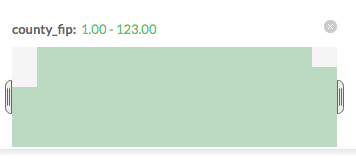
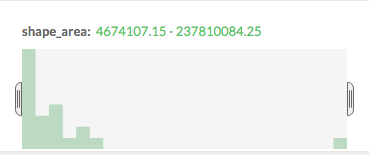
Section 'working with data' in progress

diff --git a/doc/modulo_cartodb_master_bigdata_bbva.md b/doc/modulo_cartodb_master_bigdata_bbva.md
@@ -249,23 +249,118 @@ Para terminar este apartado, solo vamos a mencionar que, en la vista de mapas, e
 
 Ya que conocemos la interfaz de CartoDB, vamos a empezar a trabajar en serio con la herramienta. Para ello, crearemos una visualización de las estaciones de [Bicimad](http://www.bicimad.com/) y los ciclocarriles de la ciudad de Madrid. Dicha visualización constará de 3 capas:
 
-* [Capa con **distritos de la ciudad de Madrid**](https://raw.githubusercontent.com/MapWorkshops/CartoDB-Intro/spanish/data/distritos_madrid.geojson), obtenida de la biblioteca de datos de CartoDB. Se trata de un conjunto de datos en formato polígono.
+* [Capa con **distritos de la ciudad de Madrid**](https://raw.githubusercontent.com/MapWorkshops/CartoDB-Intro/spanish/data/distritos_madrid_nogeo.csv), obtenida de la biblioteca de datos de CartoDB. Se trata de un conjunto de datos en formato polígono.
 * [Capa con **ciclocarriles de la ciudad de Madrid**](https://raw.githubusercontent.com/MapWorkshops/CartoDB-Intro/spanish/data/ciclocarriles_madrid.geojson), obtenida de la [web de datos abiertos de la Comunidad de Madrid](http://datos.madrid.es/portal/site/egob/menuitem.c05c1f754a33a9fbe4b2e4b284f1a5a0/?vgnextoid=435a7cd5de319410VgnVCM1000000b205a0aRCRD&vgnextchannel=374512b9ace9f310VgnVCM100000171f5a0aRCRD). Se trata de un conjunto de datos en formato línea.
-* [Capa con **estaciones de Bicimad**](https://raw.githubusercontent.com/MapWorkshops/CartoDB-Intro/spanish/data/gbicimad.geojson), obtenida también de la [web de datos abiertos de la Comunidad de Madrid](http://datos.madrid.es/portal/site/egob/menuitem.c05c1f754a33a9fbe4b2e4b284f1a5a0/?vgnextoid=f17b841a2c7d6410VgnVCM1000000b205a0aRCRD&vgnextchannel=374512b9ace9f310VgnVCM100000171f5a0aRCRD). Se trata de un conjunto de datos de puntos.
+* [Capa con **estaciones de Bicimad**](https://raw.githubusercontent.com/MapWorkshops/CartoDB-Intro/spanish/data/gbicimad_nogeo.csv), obtenida también de la [web de datos abiertos de la Comunidad de Madrid](http://datos.madrid.es/portal/site/egob/menuitem.c05c1f754a33a9fbe4b2e4b284f1a5a0/?vgnextoid=f17b841a2c7d6410VgnVCM1000000b205a0aRCRD&vgnextchannel=374512b9ace9f310VgnVCM100000171f5a0aRCRD). Se trata de un conjunto de datos de puntos.
 
 Con estos tres ejemplos, cubriremos los principales tipos de datos con los que trabajan las bases de datos espaciales.
 
-Adicionalmente, creamos un segundo mapa que contenga un solo conjunto de datos, mostrando [trazas de un viaje en bicicleta entre dos puntos de Madrid](https://raw.githubusercontent.com/MapWorkshops/CartoDB-Intro/spanish/data/home_to_job.geojson). Con este conjunto de datos, construiremos una visualización dinámica para mostrar en nuestro mapa.
+Adicionalmente, creamos un segundo mapa que contenga un solo conjunto de datos, mostrando [trazas de un viaje en bicicleta entre dos puntos de Madrid](https://raw.githubusercontent.com/MapWorkshops/CartoDB-Intro/spanish/data/home_to_job_nodate.csv). Con este conjunto de datos, construiremos una visualización dinámica para mostrar en nuestro mapa.
 
 Comencemos con la importación de datos.
 
 # Trabajando con datos
 
+Cuando trabajamos con datos de fuentes externas, es muy común que nos enfrentemos a problemas como:
+
+* Datos en diferentes formatos (CSV, Excel, JSON, SHP, KML, etc)
+* Datos sin geolocalizar
+* Datos con errores topológicos
+* Datos sin contextualizar (ej: todas las columnas se interpretan como cadenas de texto)
+* ...
+
+Es labor del profesional GIS el preveer, entender y solucionar esos contratiempos. Existen herramientas que facilitan nuestra labor. CartoDB es una de ellas.
+
+Para empezar, vamos a crear nuestro mapa, usando como fuentes de datos las 3 capas que hemos mencionado:
+
+* [Distritos de la ciudad de Madrid](https://raw.githubusercontent.com/MapWorkshops/CartoDB-Intro/spanish/data/distritos_madrid_nogeo.csv)
+* [Ciclocarriles de la ciudad de Madrid](https://raw.githubusercontent.com/MapWorkshops/CartoDB-Intro/spanish/data/ciclocarriles_madrid.geojson)
+* [Estaciones de Bicimad](https://raw.githubusercontent.com/MapWorkshops/CartoDB-Intro/spanish/data/gbicimad_nogeo.csv)
+
+### Creando nuestro mapa: importando puntos
+
+Para ello, basta con que creemos un mapa nuevo, y añadamos, para empezar, la capa de estaciones de Bicimad. Lo haremos en base a lo que hemos aprendido en el capítulo de *Un paseo por la interfaz de CartoDB*
+
+Una vez tenemos creado nuestro mapa, nos encontramos con algo extraño: no vemos los puntos:
+
+![Mapa erróneo sin puntos][map_no_points]
+
+¿Qué es lo que está sucediendo? Algo pasa con nuestros datos.
+
+Al ir a la vista de mapa, nos encontramos con el problema principal: **la columna de tipo geométrico tiene un valor nulo**. Por eso no vemos ningún punto en el mapa.
+
+![Columna geométrica nula][geom_column_null]
+
+Lo que debemos hacer es **geolocalizar nuestros datos**. Para ello, como ya vimos en el capítulo de *Un paseo por la interfaz de CartoDB*, utilizaremos la herramienta de geolocalización integrada. Tenemos la suerte de contar con columnas que contienen latitud y longitud, así que las usaremos para nuestra geolocalización.
+
+![Columnas con latitud y longitud][lat_lng_cols]
+
+Al entrar en el geolocalizador, se nos informa de que nuestra capa no contiene datos geométricos, algo que ya sabíamos. Y la primera opción que se nos ofrece es utilizar columnas que contengan latitud y longitud para la georeferencia. Seleccionamos nuestras columnas *lat* y *lng* y pulsamos en el botón de *Continue*
+
+![Geolocalización con latitud y longitud][lat_lng_geoloc]
+
+Tras unos breves instantes (nuestro conjunto de datos es bastante pequeño, y no tarda demasiado), comprobamos como la columna de tipo geométrico ha sido correctamente geolocalizada.
+
+![Columna the_geom geolocalizada][geom_column_updated]
+
+Destaquemos el detalle de que el geolocalizador ha funcionado **incluso cuando las columnas *lat* y *lng* eran de tipo *string*.**. De todas formas, dado que este conjunto de datos lo hemos importado nosotros, **se nos permite cambiar el tipo de dato de la columna a *number*, más correcto en este caso**.
+
+![Cambio de tipo de dato en columna][change_column_type]
+
+Por supuesto, estas operaciones que CartoDB hace por nosotros, tienen su contrapartida en lenguaje SQL. Desde el menú lateral derecho, podríamos haber elegido la pestaña de SQL (lo veremos más adelante detenidamente) y ejecutar las siguientes consultas
+
+Para rellenar la columna geométrica
+
+```sql
+update gbicimad_nogeo set the_geom=CDB_LatLng(lat, lng)
+```
+
+Donde CDB_LatLng es una función propia de CartoDB, construida sobre PostGIS, y cuyo código podemos ver [aquí](https://github.com/CartoDB/cartodb-postgresql/blob/master/scripts-available/CDB_LatLng.sql). Veremos algo más sobre PostGIS y lenguaje SQL más adelante.
+
+En cuanto al cambio de tipo de dato *string* por *number*, se podría haber hecho así
+
+```sql
+alter table gbicimad_nogeo alter column lat type numeric;
+alter table gbicimad_nogeo alter column lng type numeric;
+```
+
+Si ahora cambiamos a la vista de mapa, ya aparecen los puntos. Y también observamos algo muy interesante: **CartoDB nos sugiere qué tipo de mapa es apropiado, tras analizar nuestro conjunto de datos**. Esta funcionalidad es excepionalmente útil para analistas de datos geográficos, que quieren extraer información o construir historias basadas en datos geolocalizados.
+
+![CartoDB sugiere mapa a construir][cartodb_suggests_map]
+
+Tras pedirle que nos muestre la sugerencia, CartoDB nos informa de que un **mapa de calor** es el que más sentido tiene construir con nuestros datos de manera aislada.
+
+![CartoDB sugiere mapa de calor][cartodb_suggests_heatmap]
+
+Si aceptamos la sugerencia, automáticamente se construye un mapa de calor. Incluso, si desplegamos el menú lateral derecho para comprobar los parámetros, vemos que **CartoDB ha elegido unos parámetros por nosotros**.
+
+![CartoDB construye mapa de calor][cartodb_builds_heatmap]
+
+Posiblemente CartoDB tenga razón, y este sea el mejor mapa a construir con nuestros datos aislados. Pero nosotros nos vamos a quedar con el mapa sencillo de puntos, para los propositos de este tutorial. Asi que, en el propio *wizard* donde estamos viendo los parámetros del mapa de calor construido, nos movemos con las flechas hasta elegir la visualización *simple*, y vemos que los puntos vuelven a aparecer en el mapa.
+
+![Mapa de puntos seleccionado][point_map_selected]
+
+Más adelante veremos la utilidad del menú lateral y los tipos de mapa. Por ahora, sigamos importando nuestros datos.
+
+### Creando nuestro mapa: importando líneas
+
+Para importar nuestra capa de líneas con los ciclocarriles de Madrid, pinchamos en el signo *+* de color azul que hay en la parte superior del menú lateral derecho.
+
+![Nueva capa][add_new_layer]
+
+Volveremos a ver la pantalla de importanción de datos, donde podremos arrastrar nuestro [fichero de líneas](https://raw.githubusercontent.com/MapWorkshops/CartoDB-Intro/spanish/data/ciclocarriles_madrid.geojson)
+
+### Creando nuestro mapa: importando polígonos
+
 TODO
+
+
 
 ## Filtrando datos: Pestaña de filtros
 
-Como ya dijimos anteriormente, el menú lateral derecho de la vista de tabla nos ayudará a filtrar nuestros datos. En este menú tenemos, desde arriba hacia abajo:
+Como ya dijimos anteriormente, el menú lateral derecho de la vista de tabla nos ayudará a filtrar nuestros datos. Para entender cómo funcionan los filtros en CartoDB, vamos a utilizar el conjunto de datos de distritos de Madrid, que ya tenemos importado y geolocalizado.
+
+Entramos en la vista de tabla de nuestros datos, y fijamos nuestra atención en el menú lateral de la parte derecha. En este menú tenemos, desde arriba hacia abajo:
 
 * la opción de añadir un nuevo juego de datos, que nos llevará a la misma pantalla de carga de datos que ya hemos mencionado.
 * la opción de ejecutar una consulta SQL. Esta opción está también presente en la vista de mapa, y nos permite ejecutar cualquier consulta SQL permitida por [PostgreSQL](http://www.postgresql.org/) y [PostGIS](http://postgis.net/), que constituyen realmente la base de CartoDB. Veremos este tema más detenidamente en secciones posteriores.
@@ -273,7 +368,7 @@ Como ya dijimos anteriormente, el menú lateral derecho de la vista de tabla nos
 
 ![Filtros de columnas][cartodb_column_filters]
 
-Al entrar en la pestaña de filtros por columnas, lo primero que podemos hacer será elegir la columna sobre la que queremos aplicar filtros. En nuestro ejemplo, vamos a filtrar por el campo *county_fip*, que es de tipo numérico.
+Al entrar en la pestaña de filtros por columnas, lo primero que podemos hacer será elegir la columna sobre la que queremos aplicar filtros. En nuestro ejemplo, vamos a filtrar por el campo *shape_area*, que es de tipo numérico.
 
 ![Filtro de columna][cartodb_filter_column]
 
@@ -305,6 +400,8 @@ TODO (geometrías, proyecciones...)
 ## Filtrando datos: SQL geoespacial
 
 TODO
+
+(Aquí, ademas de queries geoespaciales, mostrar que, por ejemplo, podemos obtener solo los campos que necesitamos a través de la consulta SQL, obviando el resto. Por ejemplo, no queremos para nada los campos lat y lng de la capa de puntos, o la mayoría de campos de la capa de líneas)
 
 ## Mezclando fuentes
 
@@ -369,3 +466,14 @@ TODO
 [create_dataset_from_query]: https://raw.githubusercontent.com/MapWorkshops/CartoDB-Intro/spanish/doc/img/create_dataset_from_query.png
 [cartodb_column_filter_text]: https://raw.githubusercontent.com/MapWorkshops/CartoDB-Intro/spanish/doc/img/cartodb_column_filter_text.png
 [cartodb_column_filter_text2]: https://raw.githubusercontent.com/MapWorkshops/CartoDB-Intro/spanish/doc/img/cartodb_column_filter_text2.png
+[map_no_points]: https://raw.githubusercontent.com/MapWorkshops/CartoDB-Intro/spanish/doc/img/map_no_points.png
+[geom_column_null]: https://raw.githubusercontent.com/MapWorkshops/CartoDB-Intro/spanish/doc/img/geom_column_null.png
+[lat_lng_cols]: https://raw.githubusercontent.com/MapWorkshops/CartoDB-Intro/spanish/doc/img/lat_lng_cols.png
+[lat_lng_geoloc]: https://raw.githubusercontent.com/MapWorkshops/CartoDB-Intro/spanish/doc/img/lat_lng_geoloc.png
+[geom_column_updated]: https://raw.githubusercontent.com/MapWorkshops/CartoDB-Intro/spanish/doc/img/geom_column_updated.png
+[change_column_type]: https://raw.githubusercontent.com/MapWorkshops/CartoDB-Intro/spanish/doc/img/change_column_type.png
+[cartodb_suggests_map]: https://raw.githubusercontent.com/MapWorkshops/CartoDB-Intro/spanish/doc/img/cartodb_suggests_map.png
+[cartodb_suggests_heatmap]: https://raw.githubusercontent.com/MapWorkshops/CartoDB-Intro/spanish/doc/img/cartodb_suggests_heatmap.png
+[cartodb_builds_heatmap]: https://raw.githubusercontent.com/MapWorkshops/CartoDB-Intro/spanish/doc/img/cartodb_builds_heatmap.png
+[point_map_selected]: https://raw.githubusercontent.com/MapWorkshops/CartoDB-Intro/spanish/doc/img/point_map_selected.png
+[add_new_layer]: https://raw.githubusercontent.com/MapWorkshops/CartoDB-Intro/spanish/doc/img/add_new_layer.png
